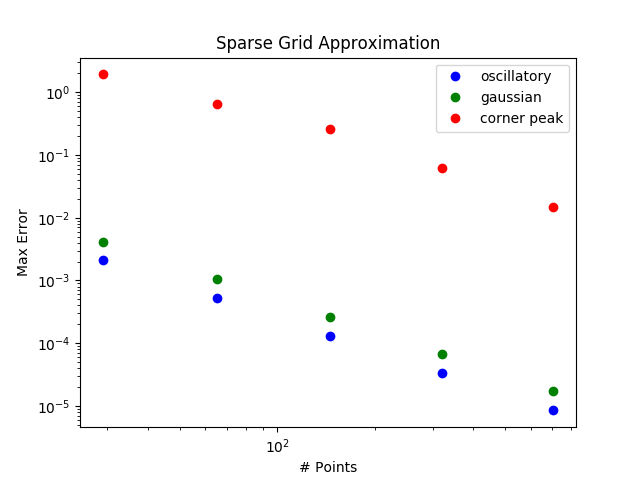
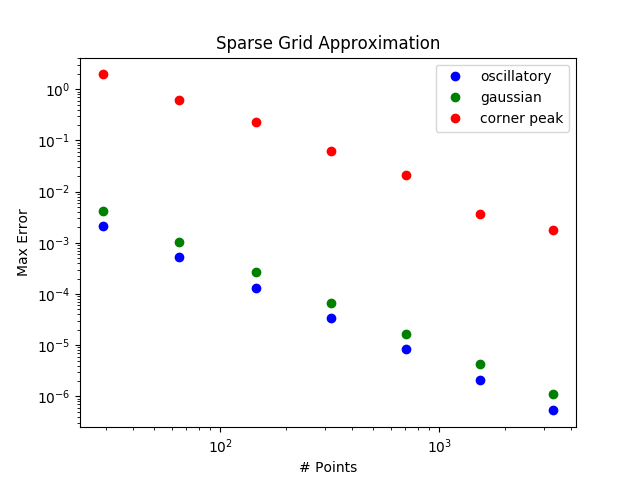
this is tedious

diff --git a/day1_SparseGrid/SparseGridCode/analytical_examples/TASMANIAN_Python/homework.py b/day1_SparseGrid/SparseGridCode/analytical_examples/TASMANIAN_Python/homework.py
@@ -41,7 +41,7 @@ def sparse_grid(iDim, iOut, which_bases, func, c, w):
 
     grid  = TasmanianSG.TasmanianSparseGrid()
 
-    depths  = np.arange(3, 8, 1)
+    depths  = np.arange(3, 10, 1)
     n = 1000
     errorStore = np.zeros(len(depths))
     numPoints = np.zeros(len(depths))
